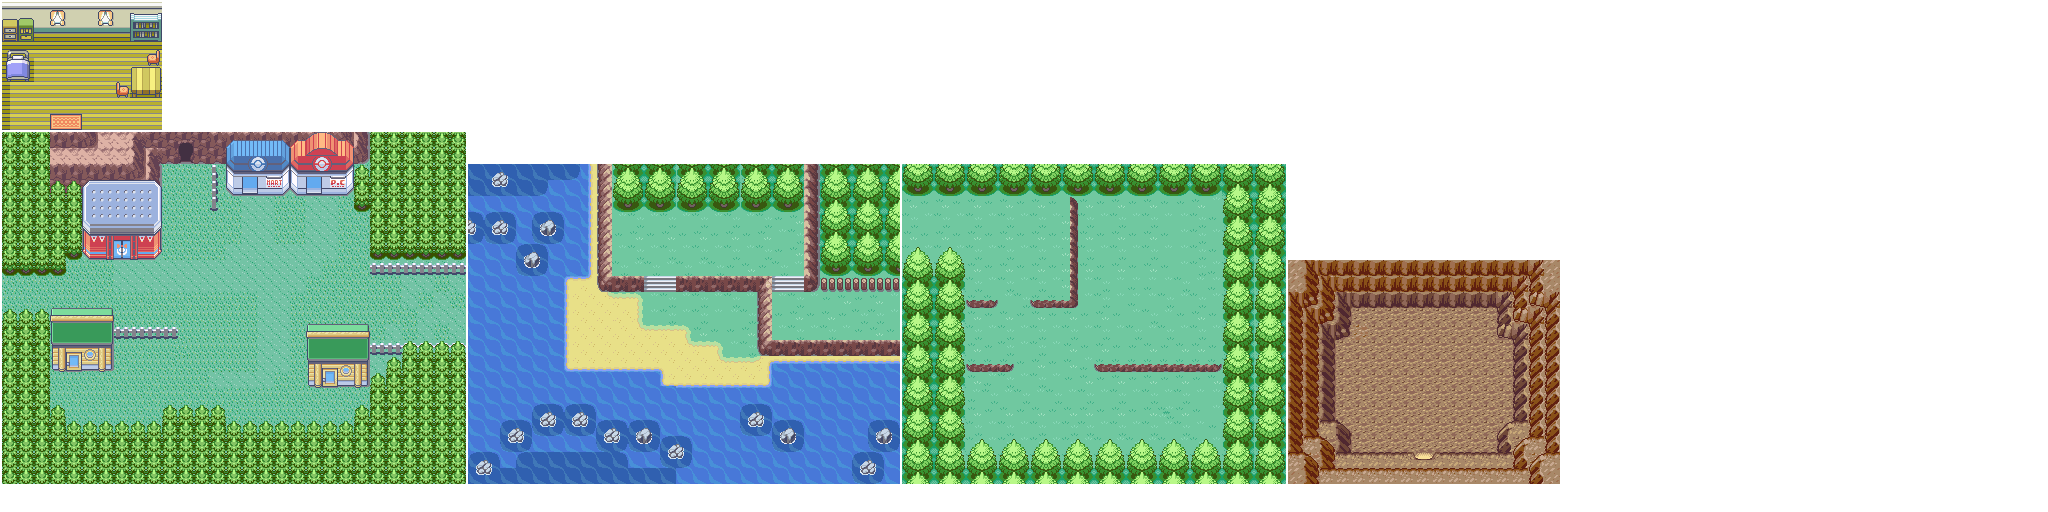
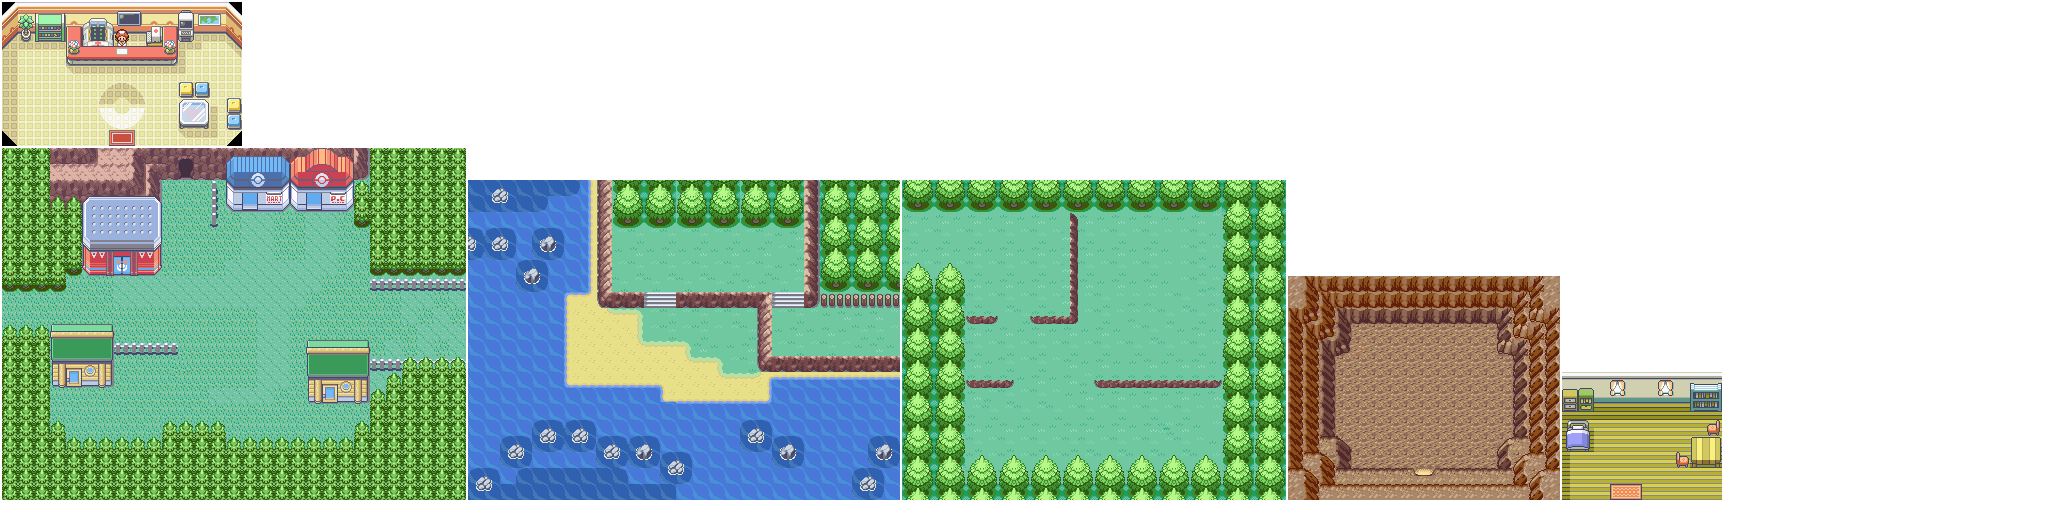
병원 추가

Changed region(s): [[0.0, 0.3125, 0.8438, 1.0], [0.0, 0.0, 0.25, 0.4375], [0.125, 0.4688, 0.1562, 0.5]]

diff --git a/core/src/com/pokemon/world/Hospital.java b/core/src/com/pokemon/world/Hospital.java
@@ -1,0 +1,104 @@
+package com.pokemon.world;
+
+import com.badlogic.gdx.Gdx;
+import com.badlogic.gdx.Input;
+import com.badlogic.gdx.graphics.Color;
+import com.pokemon.game.Pokemon;
+import com.pokemon.model.*;
+import com.pokemon.screen.GameScreen;
+import com.pokemon.transition.FadeInTransition;
+import com.pokemon.transition.FadeOutTransition;
+import com.pokemon.util.Action;
+import com.pokemon.util.ObjectGenerator;
+
+import java.util.ArrayList;
+
+import static com.pokemon.game.Settings.SCALED_TILE_SIZE;
+import static com.pokemon.screen.GameScreen.getAssetManager;
+import static com.pokemon.screen.GameScreen.getTweenManager;
+
+public class Hospital implements World{
+    private final TileMap map = new TileMap(15, 9);
+    private GameScreen gameScreen;
+    private Player player;
+    private Pokemon game;
+    private ArrayList<WorldObject> collisionObjects;
+    private Portal mainWorldPortal, heal;
+
+    public Hospital(Player player, Pokemon game, GameScreen gameScreen) {
+        this.player = player;
+        this.game = game;
+        this.gameScreen = gameScreen;
+
+        for (int x = 0; x < map.getWidth(); x++) {
+            for (int y = 0; y < map.getHeight(); y++) {
+                map.tiles[x][y] = new Tile(x, y);
+            }
+        }
+
+        collisionObjects = ObjectGenerator.generateCollisionObject("HospitalCollision");
+        renderList.clear();
+        renderList.add(player);
+        renderList.addAll(ObjectGenerator.generateObject("Hospital"));
+
+        mainWorldPortal = new Portal(7, 0, 1, 1);
+        heal = new Portal(7, 4, 1, 1);
+    }
+
+    @Override
+    public TileMap getMap() {
+        return map;
+    }
+
+    @Override
+    public ArrayList<WorldObject> getCollisionObjects() {
+        return collisionObjects;
+    }
+
+    @Override
+    public ArrayList<RenderHelper> getObjects() {
+        return renderList;
+    }
+
+    @Override
+    public String getBackground() {
+        return "Hospital";
+    }
+
+    @Override
+    public void update(float delta) {
+        if (player.x < 0) {
+            player.x = 0;
+        }
+        if (player.y < 0) {
+            player.y = 0;
+        }
+        if (player.x > map.getWidth() * SCALED_TILE_SIZE - SCALED_TILE_SIZE) {
+            player.x = map.getWidth() * SCALED_TILE_SIZE - SCALED_TILE_SIZE;
+        }
+        if (player.y > map.getHeight() * SCALED_TILE_SIZE - SCALED_TILE_SIZE) {
+            player.y = map.getHeight() * SCALED_TILE_SIZE - SCALED_TILE_SIZE;
+        }
+        if (Gdx.input.isKeyJustPressed(Input.Keys.X)) {
+            if (mainWorldPortal.overlaps(player) && player.getFacing() == DIRECTION.SOUTH) {
+                player.finishMove();
+                gameScreen.getTransitionScreen().startTransition(
+                        new FadeOutTransition(0.8f, Color.BLACK, getTweenManager(), getAssetManager()),
+                        new FadeInTransition(0.8f, Color.BLACK, getTweenManager(), getAssetManager()),
+                        new Action() {
+                            @Override
+                            public void action() {
+                                GameScreen.setWorld(new MainWorld(player, game, gameScreen));
+                                player.setX(19);
+                                player.setY(17);
+                            }
+                        }
+                );
+            }
+            if (heal.overlaps(player) && player.getFacing() == DIRECTION.NORTH) {
+                player.finishMove();
+                System.out.println("HEAL");
+            }
+        }
+    }
+}

diff --git a/core/src/com/pokemon/world/MainWorld.java b/core/src/com/pokemon/world/MainWorld.java
@@ -30,7 +30,7 @@ public class MainWorld implements World {
     private Pokemon game;
     private ArrayList<WorldObject> collisionObjects;
     private GameScreen gameScreen;
-    private Portal homePortal, minePortal, forestPortal, rankBoard, beachPortal;
+    private Portal homePortal, minePortal, forestPortal, rankBoard, beachPortal, hospitalPortal;
 
     public MainWorld(Player player, Pokemon game, GameScreen gameScreen) {
         this.player = player;
@@ -52,6 +52,7 @@ public class MainWorld implements World {
         minePortal = new Portal(11, 19, 1, 1);
         forestPortal = new Portal(28, 9, 1, 4);
         beachPortal = new Portal(0, 10, 1, 3);
+        hospitalPortal = new Portal(19, 17, 1, 1);
     }
 
     @Override
@@ -145,6 +146,20 @@ public class MainWorld implements World {
                                 GameScreen.setWorld(new Beach(player, game, gameScreen));
                                 player.setX(26);
                                 player.setY(10.5f);
+                            }
+                        });
+            }
+            if (hospitalPortal.overlaps(player) && player.getFacing() == DIRECTION.NORTH) {
+                player.finishMove();
+                gameScreen.getTransitionScreen().startTransition(
+                        new FadeOutTransition(0.8f, Color.BLACK, getTweenManager(), getAssetManager()),
+                        new FadeInTransition(0.8f, Color.BLACK, getTweenManager(), getAssetManager()),
+                        new Action() {
+                            @Override
+                            public void action() {
+                                GameScreen.setWorld(new Hospital(player, game, gameScreen));
+                                player.setX(7);
+                                player.setY(0);
                             }
                         });
             }
